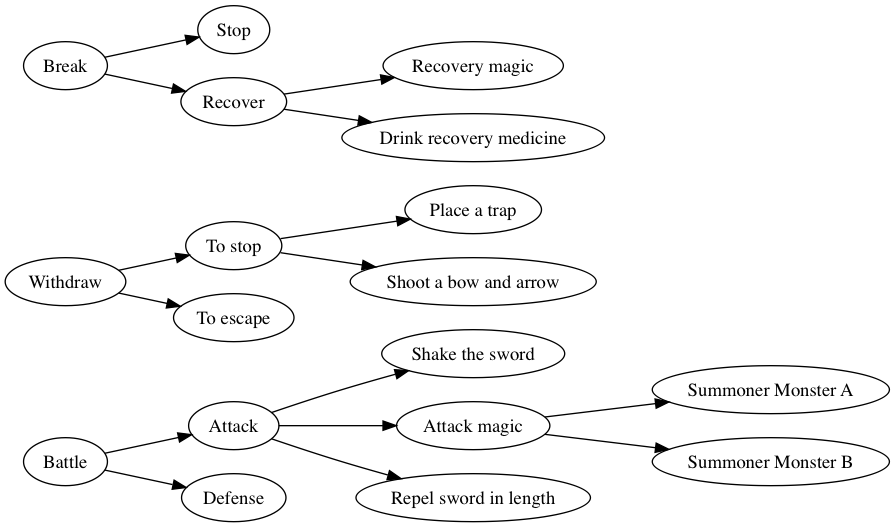
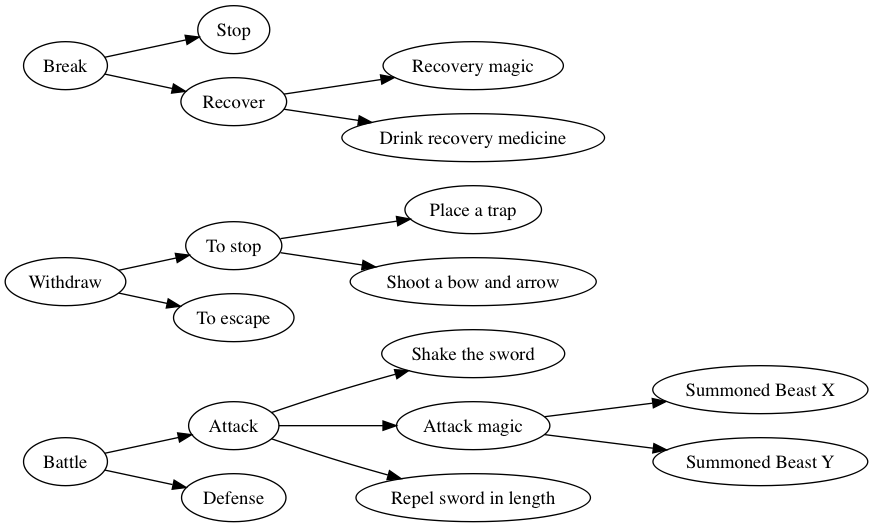
Update README

diff --git a/examples/demo.rb b/examples/demo.rb
@@ -29,14 +29,14 @@ TreeSupport.graphviz(root).output("../images/tree.png")
 TreeSupport.graphviz(root, take: 3).output("../images/take.png")
 TreeSupport.graphviz(root, drop: 1).output("../images/drop.png")
 TreeSupport.graphviz(root, take: 3, drop: 1).output("../images/take_drop.png")
-# >> [["*root*", 0], ["Battle", 1], ["Attack", 2], ["Shake the sword", 3], ["Attack magic", 4], ["Summoner Monster A", 5], ["Summoner Monster B", 6], ["Repel sword in length", 7], ["Defense", 8], ["Withdraw", 9], ["To stop", 10], ["Place a trap", 11], ["Shoot a bow and arrow", 12], ["To escape", 13], ["Break", 14], ["Stop", 15], ["Recover", 16], ["Recovery magic", 17], ["Drink recovery medicine", 18]]
+# >> [["*root*", 0], ["Battle", 1], ["Attack", 2], ["Shake the sword", 3], ["Attack magic", 4], ["Summoned Beast X", 5], ["Summoned Beast Y", 6], ["Repel sword in length", 7], ["Defense", 8], ["Withdraw", 9], ["To stop", 10], ["Place a trap", 11], ["Shoot a bow and arrow", 12], ["To escape", 13], ["Break", 14], ["Stop", 15], ["Recover", 16], ["Recovery magic", 17], ["Drink recovery medicine", 18]]
 # >> *root*
 # >> ├─Battle
 # >> │   ├─Attack
 # >> │   │   ├─Shake the sword
 # >> │   │   ├─Attack magic
-# >> │   │   │   ├─Summoner Monster A
-# >> │   │   │   └─Summoner Monster B
+# >> │   │   │   ├─Summoned Beast X
+# >> │   │   │   └─Summoned Beast Y
 # >> │   │   └─Repel sword in length
 # >> │   └─Defense
 # >> ├─Withdraw
@@ -54,8 +54,8 @@ TreeSupport.graphviz(root, take: 3, drop: 1).output("../images/take_drop.png")
 # >> │   ├─Attack
 # >> │   │   ├─Shake the sword
 # >> │   │   ├─Attack magic
-# >> │   │   │   ├─Summoner Monster A
-# >> │   │   │   └─Summoner Monster B
+# >> │   │   │   ├─Summoned Beast X
+# >> │   │   │   └─Summoned Beast Y
 # >> │   │   └─Repel sword in length
 # >> │   └─Defense
 # >> ├─Withdraw
@@ -72,8 +72,8 @@ TreeSupport.graphviz(root, take: 3, drop: 1).output("../images/take_drop.png")
 # >> ├─Attack
 # >> │   ├─Shake the sword
 # >> │   ├─Attack magic
-# >> │   │   ├─Summoner Monster A
-# >> │   │   └─Summoner Monster B
+# >> │   │   ├─Summoned Beast X
+# >> │   │   └─Summoned Beast Y
 # >> │   └─Repel sword in length
 # >> └─Defense
 # >> Withdraw

diff --git a/examples/0180_replace_to_active_record_tree.rb b/examples/0180_replace_to_active_record_tree.rb
@@ -66,8 +66,8 @@ puts TreeSupport.tree(root)
 # >> │   ├─Attack
 # >> │   │   ├─Shake the sword
 # >> │   │   ├─Attack magic
-# >> │   │   │   ├─Summoner Monster A
-# >> │   │   │   └─Summoner Monster B
+# >> │   │   │   ├─Summoned Beast X
+# >> │   │   │   └─Summoned Beast Y
 # >> │   │   └─Repel sword in length
 # >> │   └─Defense
 # >> ├─Withdraw
@@ -85,8 +85,8 @@ puts TreeSupport.tree(root)
 # >> │   ├─Attack
 # >> │   │   ├─Shake the sword
 # >> │   │   ├─Attack magic
-# >> │   │   │   ├─Summoner Monster A
-# >> │   │   │   └─Summoner Monster B
+# >> │   │   │   ├─Summoned Beast X
+# >> │   │   │   └─Summoned Beast Y
 # >> │   │   └─Repel sword in length
 # >> │   └─Defense
 # >> ├─Withdraw
@@ -104,8 +104,8 @@ puts TreeSupport.tree(root)
 # >> │   ├─Attack
 # >> │   │   ├─Shake the sword
 # >> │   │   ├─Attack magic
-# >> │   │   │   ├─Summoner Monster A
-# >> │   │   │   └─Summoner Monster B
+# >> │   │   │   ├─Summoned Beast X
+# >> │   │   │   └─Summoned Beast Y
 # >> │   │   └─Repel sword in length
 # >> │   └─Defense
 # >> ├─Withdraw

diff --git a/examples/0130_node_class_example.rb b/examples/0130_node_class_example.rb
@@ -29,8 +29,8 @@ root = Node.new("*root*") do
     add "Attack" do
       add "Shake the sword"
       add "Attack magic" do
-        add "Summoner Monster A"
-        add "Summoner Monster B"
+        add "Summoned Beast X"
+        add "Summoned Beast Y"
       end
       add "Repel sword in length"
     end
@@ -63,8 +63,8 @@ puts root.to_s_tree
 # >> │   ├─Attack
 # >> │   │   ├─Shake the sword
 # >> │   │   ├─Attack magic
-# >> │   │   │   ├─Summoner Monster A
-# >> │   │   │   └─Summoner Monster B
+# >> │   │   │   ├─Summoned Beast X
+# >> │   │   │   └─Summoned Beast Y
 # >> │   │   └─Repel sword in length
 # >> │   └─Defense
 # >> ├─Withdraw
@@ -82,8 +82,8 @@ puts root.to_s_tree
 # >> │   ├─Attack
 # >> │   │   ├─Shake the sword
 # >> │   │   ├─Attack magic
-# >> │   │   │   ├─Summoner Monster A
-# >> │   │   │   └─Summoner Monster B
+# >> │   │   │   ├─Summoned Beast X
+# >> │   │   │   └─Summoned Beast Y
 # >> │   │   └─Repel sword in length
 # >> │   └─Defense
 # >> ├─Withdraw

diff --git a/examples/0160_acts_as_tree_and_list.rb b/examples/0160_acts_as_tree_and_list.rb
@@ -45,8 +45,8 @@ root = Node.create!(name: "*root*").tap do |n|
       add "Attack" do
         add "Shake the sword"
         add "Attack magic" do
-          add "Summoner Monster A"
-          add "Summoner Monster B"
+          add "Summoned Beast X"
+          add "Summoned Beast Y"
         end
         add "Repel sword in length"
       end
@@ -117,8 +117,8 @@ Node.destroy_all rescue $!      # => #<ActiveRecord::RecordNotFound: Couldn't fi
 # >> │   ├─Attack(1)
 # >> │   │   ├─Shake the sword(1)
 # >> │   │   ├─Attack magic(2)
-# >> │   │   │   ├─Summoner Monster A(1)
-# >> │   │   │   └─Summoner Monster B(2)
+# >> │   │   │   ├─Summoned Beast X(1)
+# >> │   │   │   └─Summoned Beast Y(2)
 # >> │   │   └─Repel sword in length(3)
 # >> │   └─Defense(2)
 # >> ├─Withdraw(2)

diff --git a/examples/0200_ar_tree_model.rb b/examples/0200_ar_tree_model.rb
@@ -39,8 +39,8 @@ Node.create!(name: "*root*").tap do |n|
       add "Attack" do
         add "Shake the sword"
         add "Attack magic" do
-          add "Summoner Monster A"
-          add "Summoner Monster B"
+          add "Summoned Beast X"
+          add "Summoned Beast Y"
         end
         add "Repel sword in length"
       end
@@ -70,8 +70,8 @@ Node.destroy_all             # Because it does not use acts_as_list, it can be e
 # >> ├─Battle
 # >> │   ├─Attack
 # >> │   │   ├─Attack magic
-# >> │   │   │   ├─Summoner Monster A
-# >> │   │   │   └─Summoner Monster B
+# >> │   │   │   ├─Summoned Beast X
+# >> │   │   │   └─Summoned Beast Y
 # >> │   │   ├─Repel sword in length
 # >> │   │   └─Shake the sword
 # >> │   └─Defense

diff --git a/examples/0140_active_record.rb b/examples/0140_active_record.rb
@@ -35,8 +35,8 @@ root = Node.create!(name: "*root*").tap do |n|
       add "Attack" do
         add "Shake the sword"
         add "Attack magic" do
-          add "Summoner Monster A"
-          add "Summoner Monster B"
+          add "Summoned Beast X"
+          add "Summoned Beast Y"
         end
         add "Repel sword in length"
       end
@@ -65,8 +65,8 @@ puts TreeSupport.tree(root)
 # >> │   ├─Attack
 # >> │   │   ├─Shake the sword
 # >> │   │   ├─Attack magic
-# >> │   │   │   ├─Summoner Monster A
-# >> │   │   │   └─Summoner Monster B
+# >> │   │   │   ├─Summoned Beast X
+# >> │   │   │   └─Summoned Beast Y
 # >> │   │   └─Repel sword in length
 # >> │   └─Defense
 # >> ├─Withdraw

diff --git a/examples/0150_acts_as_tree.rb b/examples/0150_acts_as_tree.rb
@@ -38,8 +38,8 @@ _root = Node.create!(name: "*root*").tap do |n|
       add "Attack" do
         add "Shake the sword"
         add "Attack magic" do
-          add "Summoner Monster A"
-          add "Summoner Monster B"
+          add "Summoned Beast X"
+          add "Summoned Beast Y"
         end
         add "Repel sword in length"
       end
@@ -84,8 +84,8 @@ Node.tree_view(:name)
 # >>  |    |_ Battle
 # >>  |        |_ Attack
 # >>  |            |_ Attack magic
-# >>  |                |_ Summoner Monster A
-# >>  |                |_ Summoner Monster B
+# >>  |                |_ Summoned Beast X
+# >>  |                |_ Summoned Beast Y
 # >>  |            |_ Repel sword in length
 # >>  |            |_ Shake the sword
 # >>  |        |_ Defense

diff --git a/examples/0190_generate_ruby_code.rb b/examples/0190_generate_ruby_code.rb
@@ -25,8 +25,8 @@ puts TreeSupport.tree(eval(code))
 # >> add "Attack" do
 # >> add "Shake the sword"
 # >> add "Attack magic" do
-# >> add "Summoner Monster A"
-# >> add "Summoner Monster B"
+# >> add "Summoned Beast X"
+# >> add "Summoned Beast Y"
 # >> end
 # >> add "Repel sword in length"
 # >> end
@@ -52,8 +52,8 @@ puts TreeSupport.tree(eval(code))
 # >> │   ├─Attack
 # >> │   │   ├─Shake the sword
 # >> │   │   ├─Attack magic
-# >> │   │   │   ├─Summoner Monster A
-# >> │   │   │   └─Summoner Monster B
+# >> │   │   │   ├─Summoned Beast X
+# >> │   │   │   └─Summoned Beast Y
 # >> │   │   └─Repel sword in length
 # >> │   └─Defense
 # >> ├─Withdraw

diff --git a/examples/0100_simple.rb b/examples/0100_simple.rb
@@ -6,8 +6,8 @@ puts TreeSupport.tree(TreeSupport.example)
 # >> │   ├─Attack
 # >> │   │   ├─Shake the sword
 # >> │   │   ├─Attack magic
-# >> │   │   │   ├─Summoner Monster A
-# >> │   │   │   └─Summoner Monster B
+# >> │   │   │   ├─Summoned Beast X
+# >> │   │   │   └─Summoned Beast Y
 # >> │   │   └─Repel sword in length
 # >> │   └─Defense
 # >> ├─Withdraw

diff --git a/examples/0210_take_drop.rb b/examples/0210_take_drop.rb
@@ -10,8 +10,8 @@ puts TreeSupport.example.to_s_tree(take: 3, drop: 1)
 # >> --------------------------------------------------------------------------------
 # >> Shake the sword
 # >> Attack magic
-# >> ├─Summoner Monster A
-# >> └─Summoner Monster B
+# >> ├─Summoned Beast X
+# >> └─Summoned Beast Y
 # >> Repel sword in length
 # >> Place a trap
 # >> Shoot a bow and arrow

diff --git a/spec/tree_support_spec.rb b/spec/tree_support_spec.rb
@@ -8,8 +8,8 @@ RSpec.describe "TreeSupport" do
 │   ├─Attack
 │   │   ├─Shake the sword
 │   │   ├─Attack magic
-│   │   │   ├─Summoner Monster A
-│   │   │   └─Summoner Monster B
+│   │   │   ├─Summoned Beast X
+│   │   │   └─Summoned Beast Y
 │   │   └─Repel sword in length
 │   └─Defense
 ├─Withdraw

diff --git a/spec/ar_tree_model_spec.rb b/spec/ar_tree_model_spec.rb
@@ -38,8 +38,8 @@ RSpec.describe "ArTreeModel" do
           add "Attack" do
             add "Shake the sword"
             add "Attack magic" do
-              add "Summoner Monster A"
-              add "Summoner Monster B"
+              add "Summoned Beast X"
+              add "Summoned Beast Y"
             end
             add "Repel sword in length"
           end
